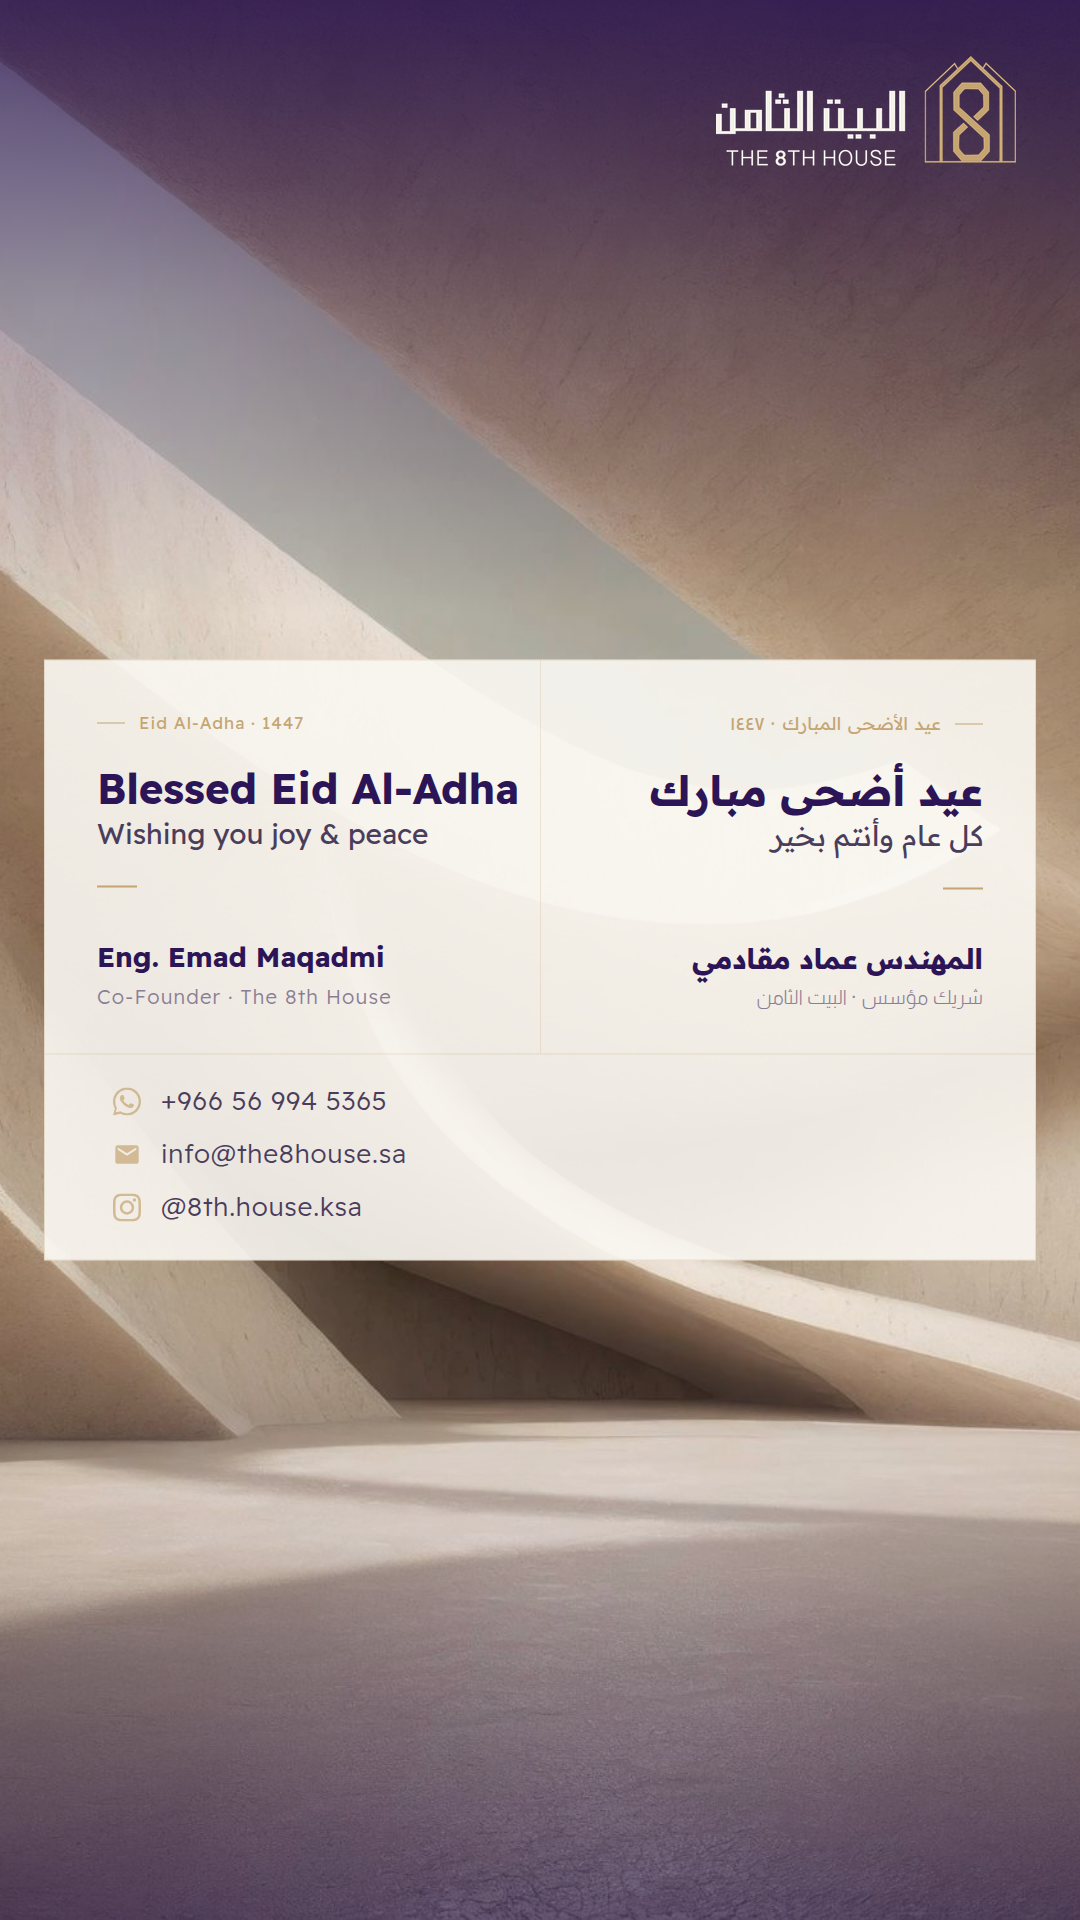
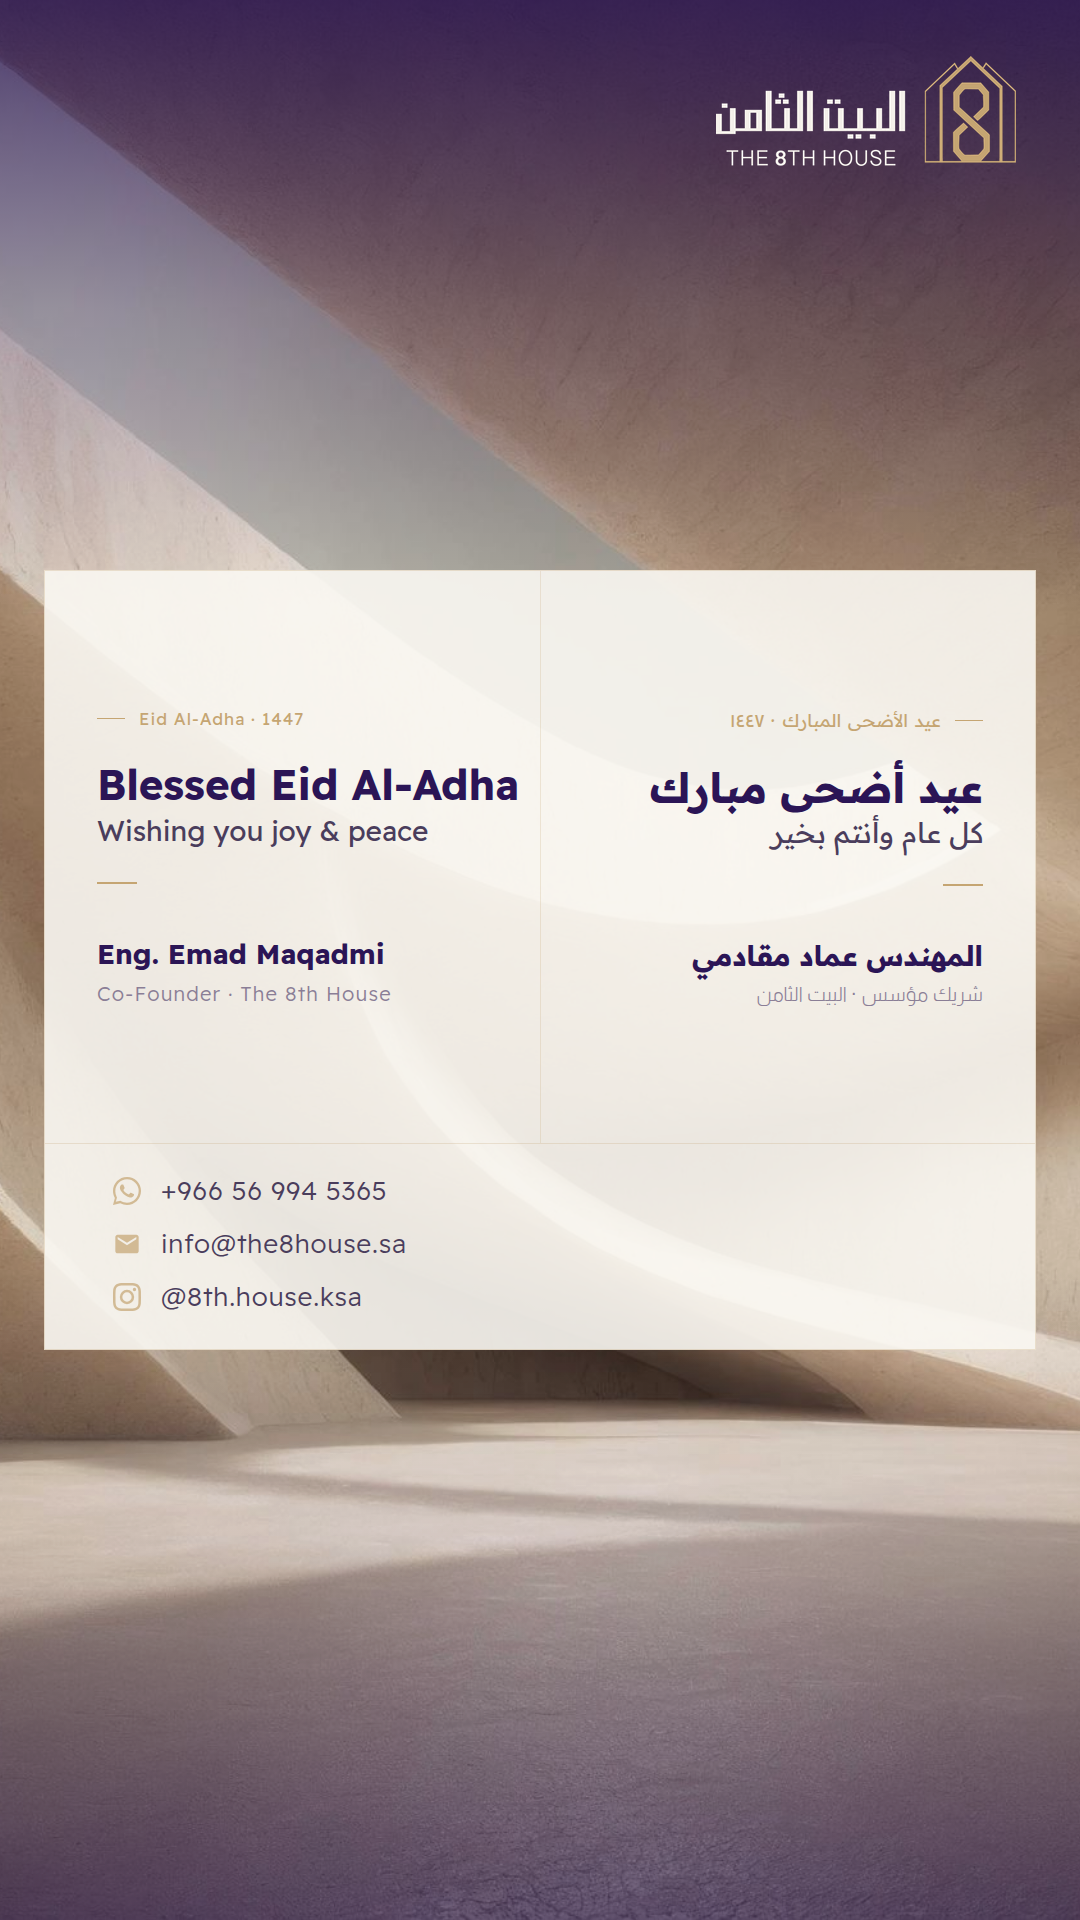
Fixed-height panel with centered text and contact at bottom
https://claude.ai/code/session_01CSSTbXjfUtb6qJ2tW8hjCv

diff --git a/eid-cards.html b/eid-cards.html
@@ -60,7 +60,7 @@
     .card__nav img { width:300px; height:auto; display:block; }
 
     /* ══════════════════════════════════════════
-       BODY PANEL — auto-height, centered on card
+       BODY PANEL — fixed height, centered on card
     ══════════════════════════════════════════ */
     .card__body {
       position: absolute;
@@ -68,6 +68,7 @@
       transform: translateY(-50%);
       left: 44px;
       right: 44px;
+      height: 780px;
       z-index: 2;
       background: rgba(250,247,242,0.90);
       border: 1px solid rgba(197,165,114,0.28);
@@ -75,17 +76,19 @@
       flex-direction: column;
     }
 
-    /* two-column section — wraps content, no forced stretch */
+    /* two-column section — fills remaining space above contact */
     .card__columns {
       display: flex;
+      flex: 1;
+      min-height: 0;
     }
 
     .card__col {
       flex: 1;
-      padding: 52px 52px 44px;
+      padding: 44px 52px;
       display: flex;
       flex-direction: column;
-      justify-content: flex-start;
+      justify-content: center;
       overflow: hidden;
     }
     .card__col--ar {
